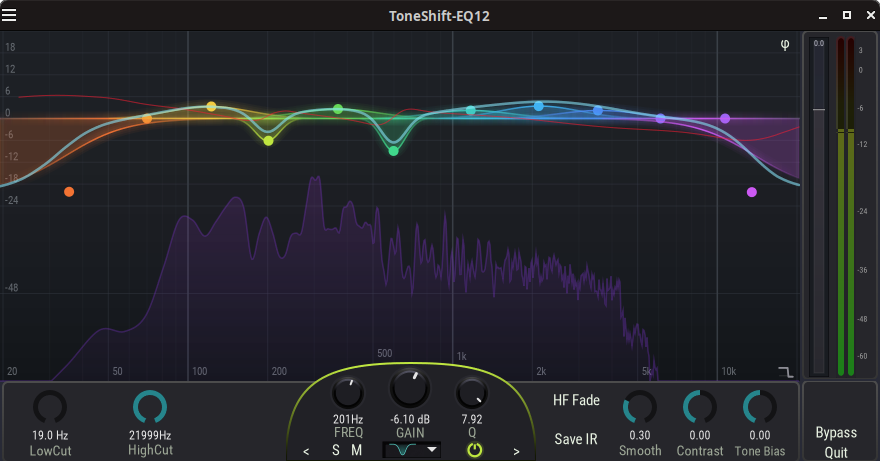
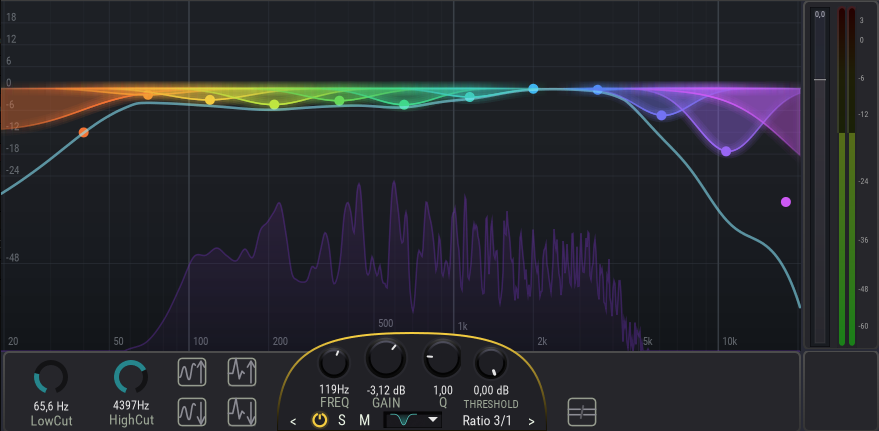
Update screenshot

diff --git a/Technical.md b/Technical.md
@@ -54,7 +54,7 @@ Left and right channels are processed independently with separate convolution
 state (FFT buffers, overlap-add accumulators, input/output FIFOs and history
 buffers), sharing only the IR data which is read-only during processing.
 
-## Biquad Processing Engine
+### Biquad Processing Engine
 
 The Biquad engine implements the same 12-band parametric equalizer
 using cascaded second-order IIR filters.
@@ -65,6 +65,24 @@ Low Cut and High Cut filters are implemented as dedicated high-pass and low-pass
 Since no convolution is involved, processing is performed sample-by-sample
 with effectively zero latency, making this mode particularly suitable
 for real-time monitoring and live performance.
+
+### Dynamic Equalization
+
+ToneShiftEQ optionally provides frequency-selective dynamic processing.
+
+Each EQ band can operate as an independent spectral compressor with
+its own Threshold and Ratio parameters.
+
+The detector measures the signal level within each filter band and
+computes a dynamic gain value that is applied on top of the static
+EQ gain.
+
+Static EQ parameters remain unchanged while the dynamic gain is
+updated continuously during processing.
+
+This architecture allows transparent suppression of resonances and
+level-dependent tonal balancing without modifying the underlying
+equalizer settings.
 
 ---
 
@@ -93,6 +111,8 @@ Each band provides:
 - **Q** — 0.4 to 10.0 (logarithmic)
 - **Type** — Low Shelf, Peak, High Shelf
 - **Enable / Mute / Solo** — per band
+- **Threshold** — set Threshold for dynamic EQ
+- **Ratio** — set the Ratio for the dynamic EQ
 
 Additional global controls:
 - **Low Cut / High Cut** — configurable high-pass and low-pass filters
@@ -156,6 +176,37 @@ fractional scaling.
 - **EQ Matching** — two audio reference files can be loaded and analyzed to
   derive the EQ curve required to match one spectrum to the other
   - currently disabled
+
+### Impulse Response Import
+
+ToneShiftEQ can approximate existing impulse responses using its
+internal 12-band parametric EQ model.
+
+The imported frequency response is analysed and converted into:
+
+* Band gains
+* Low Cut frequency
+* High Cut frequency
+
+Band center frequencies and Q values use the internal defaults to
+produce a stable approximation suitable for further editing.
+
+The imported EQ is intended as a practical approximation rather than
+an exact reconstruction of the original impulse response.
+
+### Equalizer APO Compatibility
+
+ToneShiftEQ supports importing and exporting Equalizer APO
+configuration files.
+
+Supported filter types are translated into the internal
+12-band EQ representation.
+
+When exporting, only filter types supported by Equalizer APO are
+written to the configuration file.
+
+Dynamic EQ parameters are currently specific to ToneShiftEQ and are
+not part of the Equalizer APO file format.
 
 ---
 
